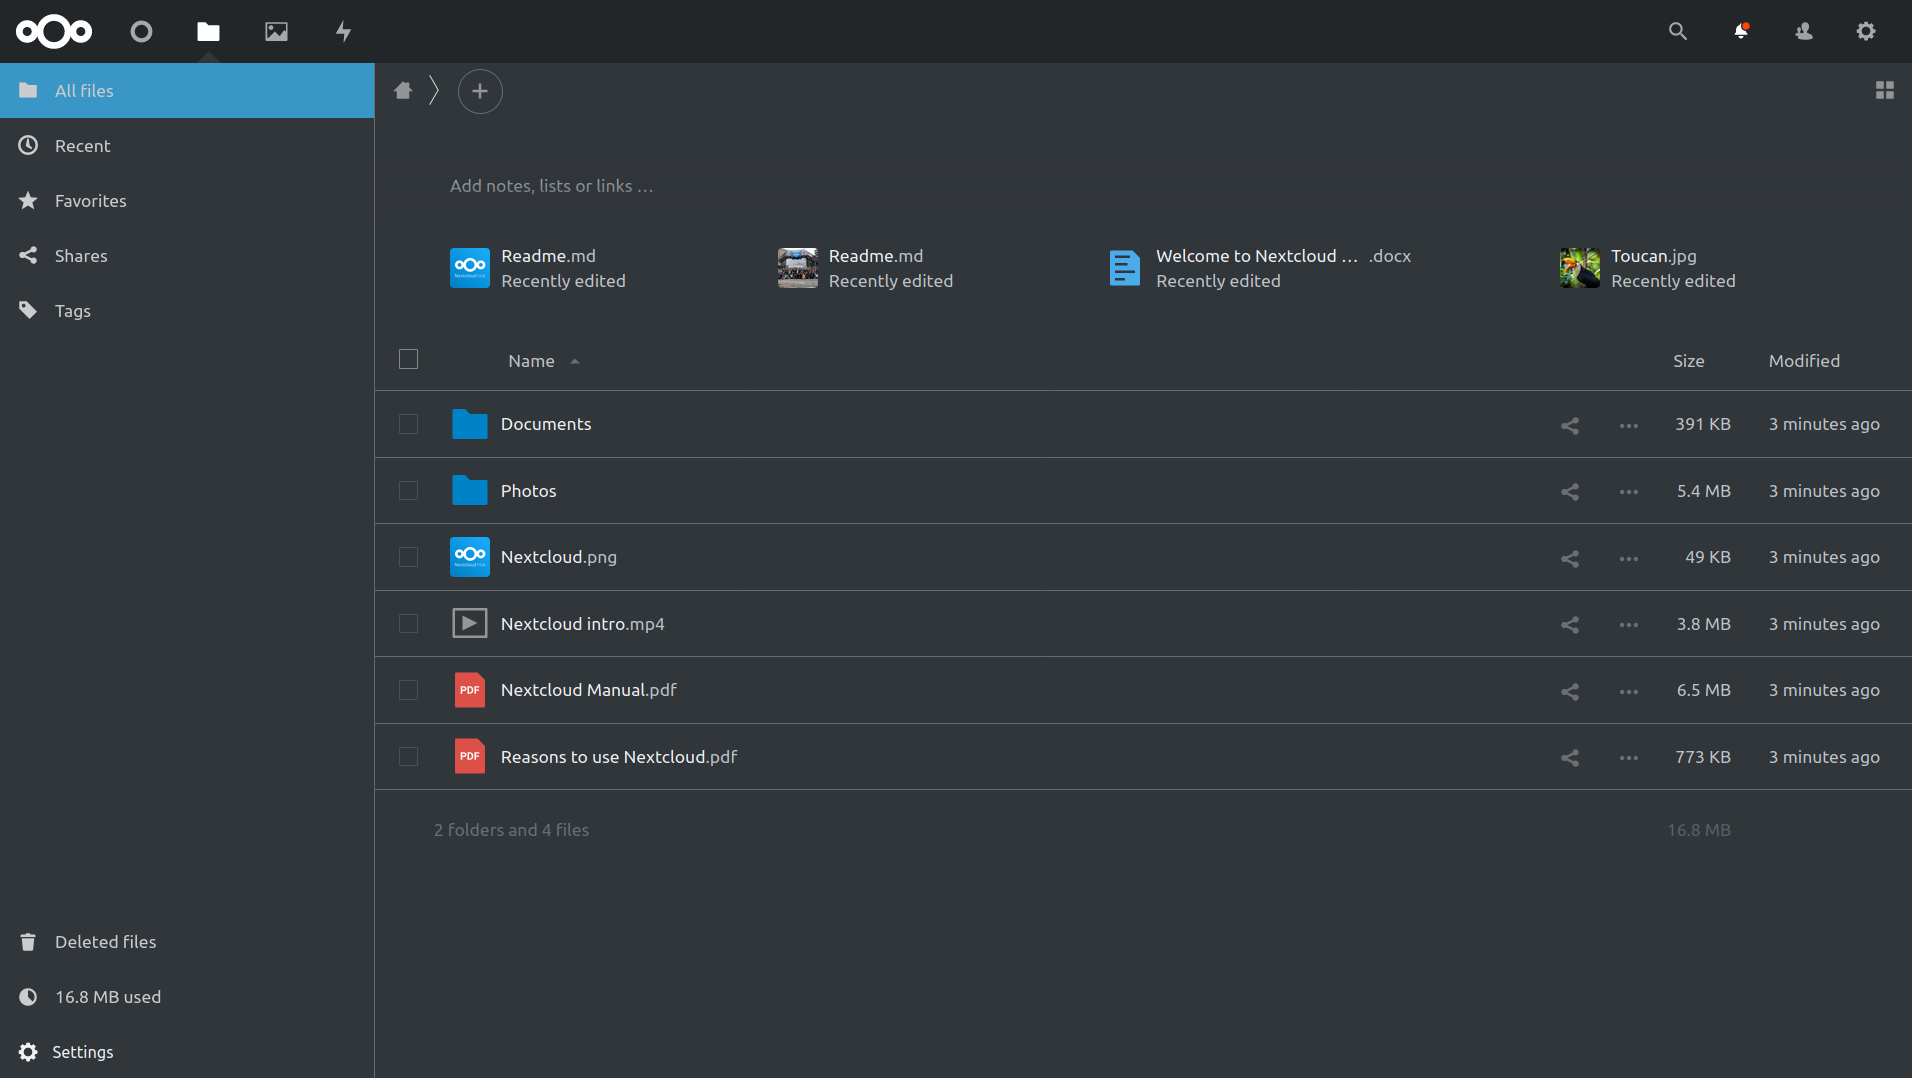
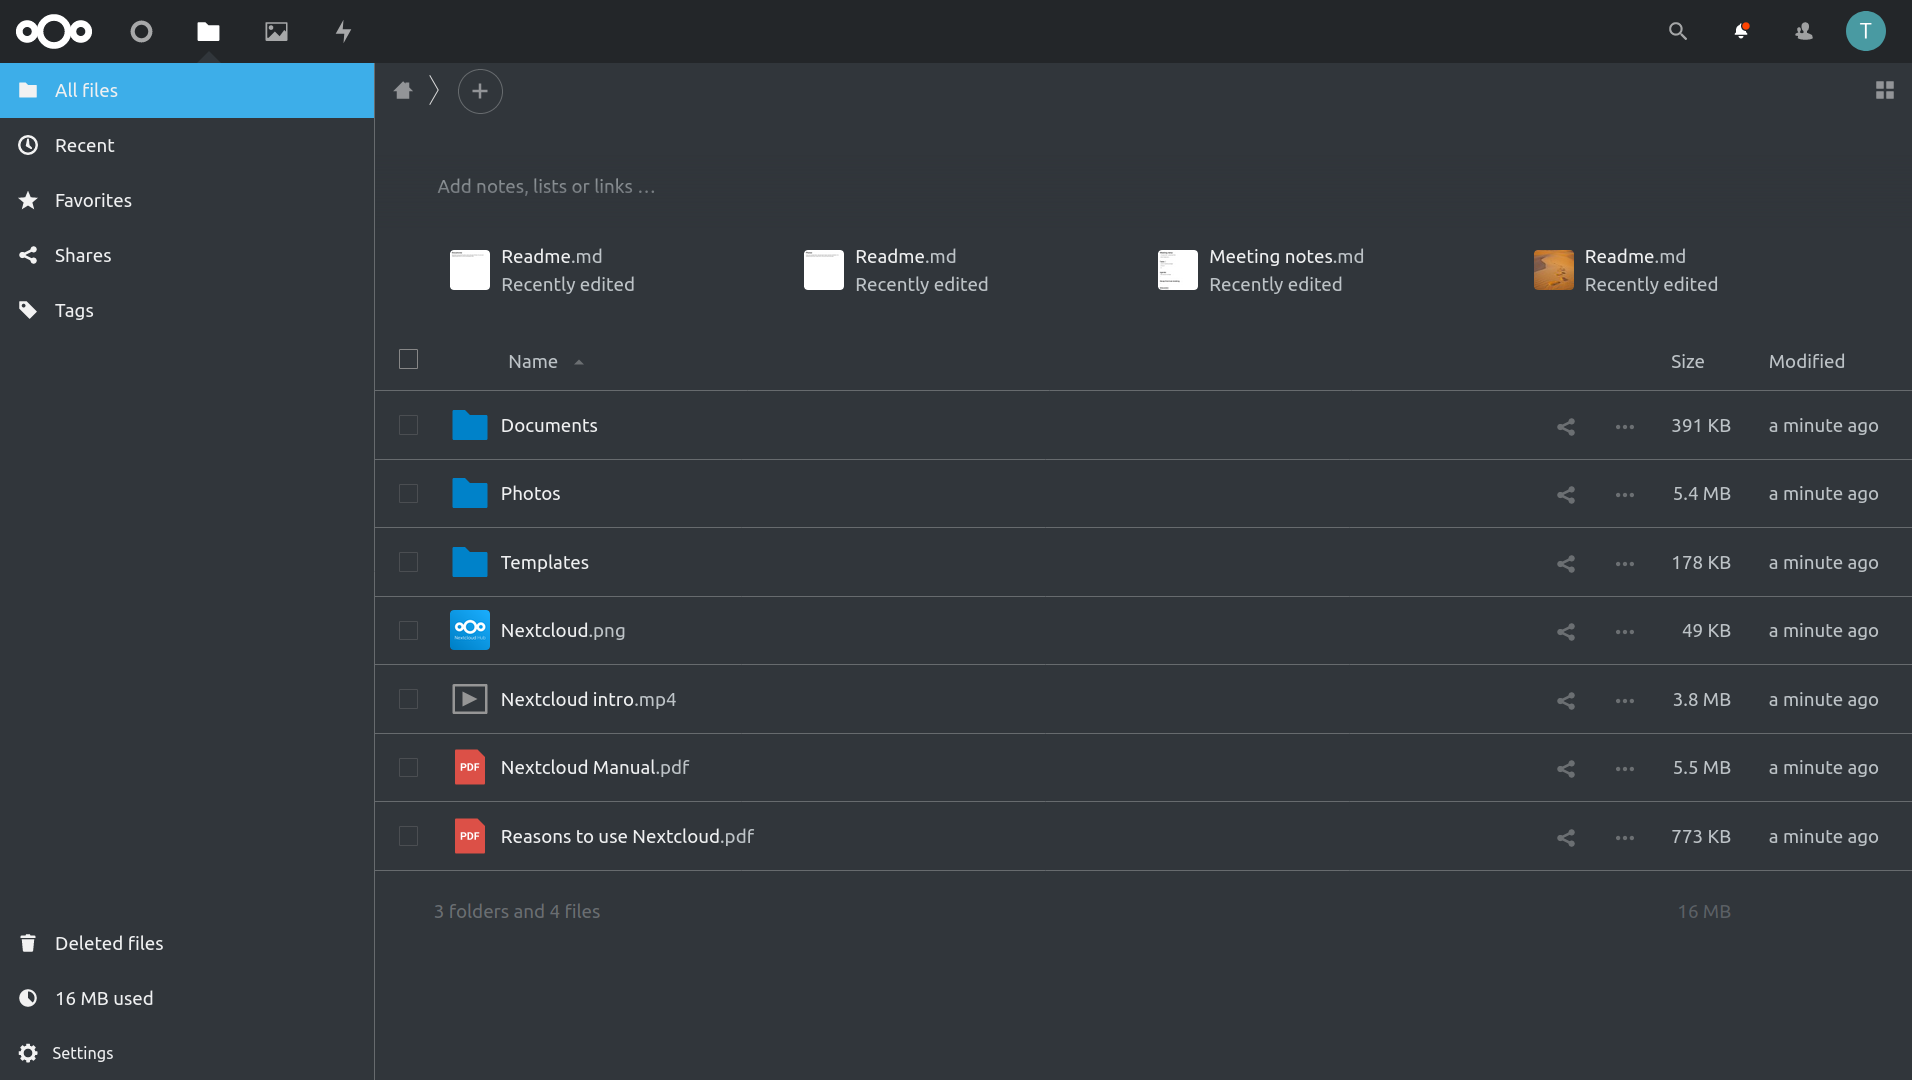
Add support for Nextcloud 21

diff --git a/README.md b/README.md
@@ -10,13 +10,14 @@ If you have any questions, problems or any thing else you're welcome to come han
 
 The currently supported and maintained Nextcloud releases are:
 
+-   Nextcloud 21
 -   Nextcloud 20
--   Nextcloud 19
 
 I try my best to maintain 2 Nextcloud releases at once, to allow for smoother transistions, but for various reason I might decide to drop support for older releases early.
 
 Previous unmaintained releases:
 
+-   Nextcloud 19
 -   Nextcloud 18
 -   Nextcloud 17
 -   Nextcloud 11-16

diff --git a/CHANGELOG.md b/CHANGELOG.md
@@ -2,9 +2,23 @@
 
 ## [Unreleased]
 
+## 21.0.0 - 2021-02-20
+
+### Added
+
+-   [#202](https://github.com/mwalbeck/nextcloud-breeze-dark/issues/202) Support for Nextcloud 21
+
+### Changed
+
+-   Added new screenshot of Nextcloud 21
+
 ### Fixed
 
 -   [#213](https://github.com/mwalbeck/nextcloud-breeze-dark/issues/213) Deck: Use light icon for .icon-reply
+
+### Removed
+
+-   Support for Nextcloud 19
 
 ## 20.0.5 - 2021-02-20
 
